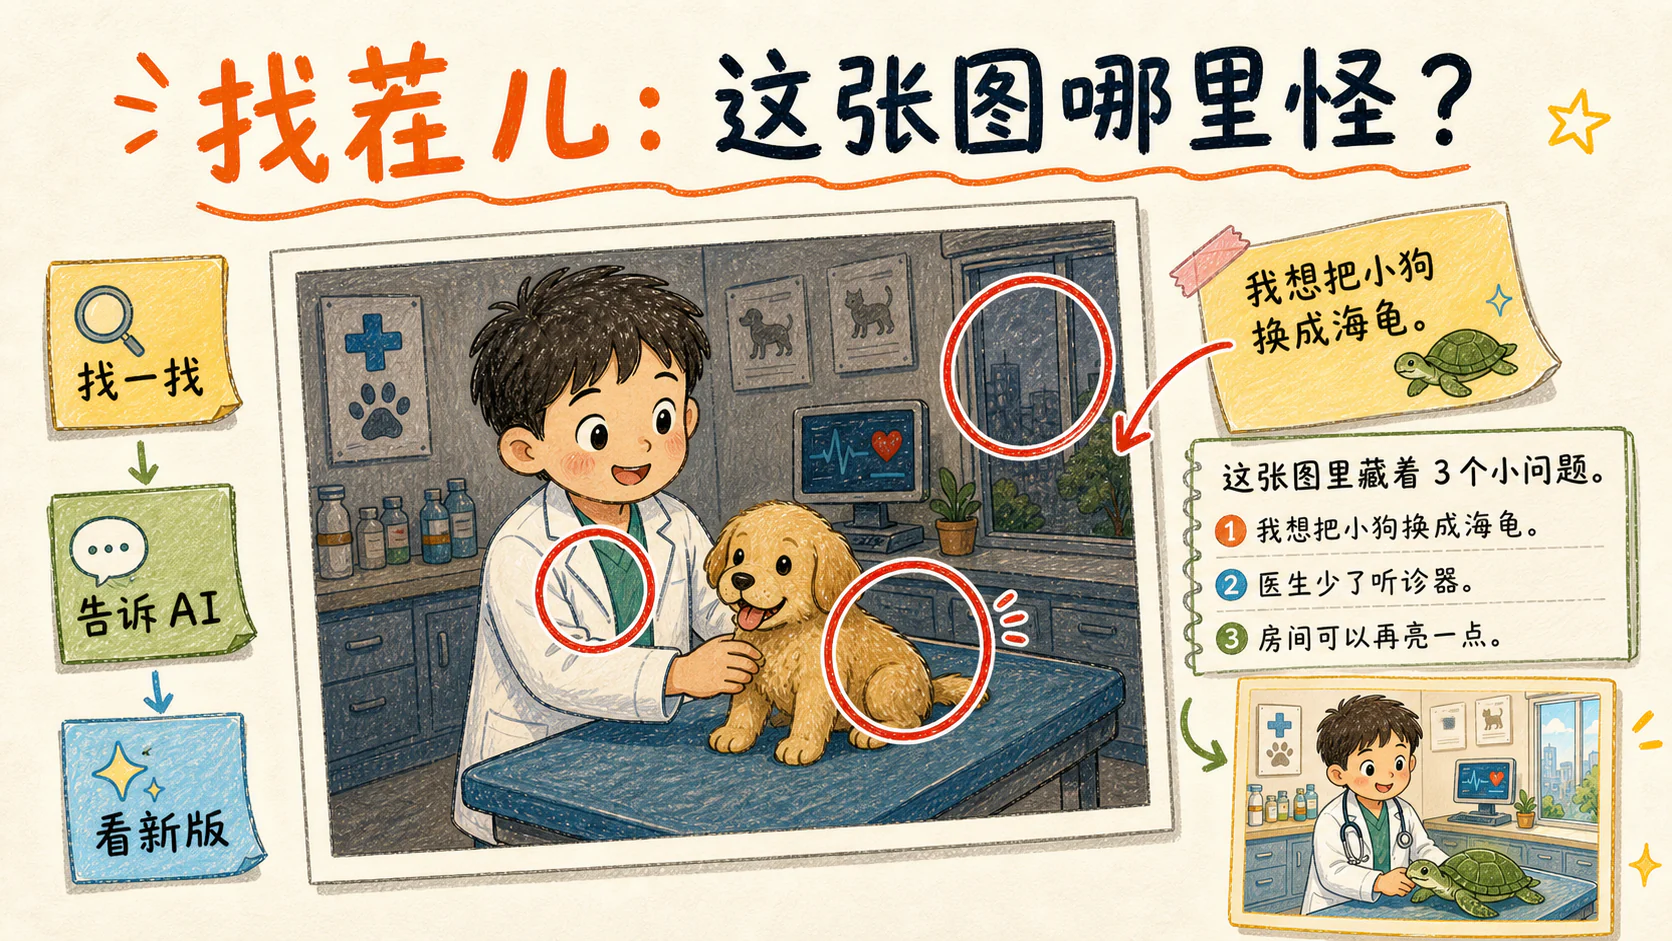
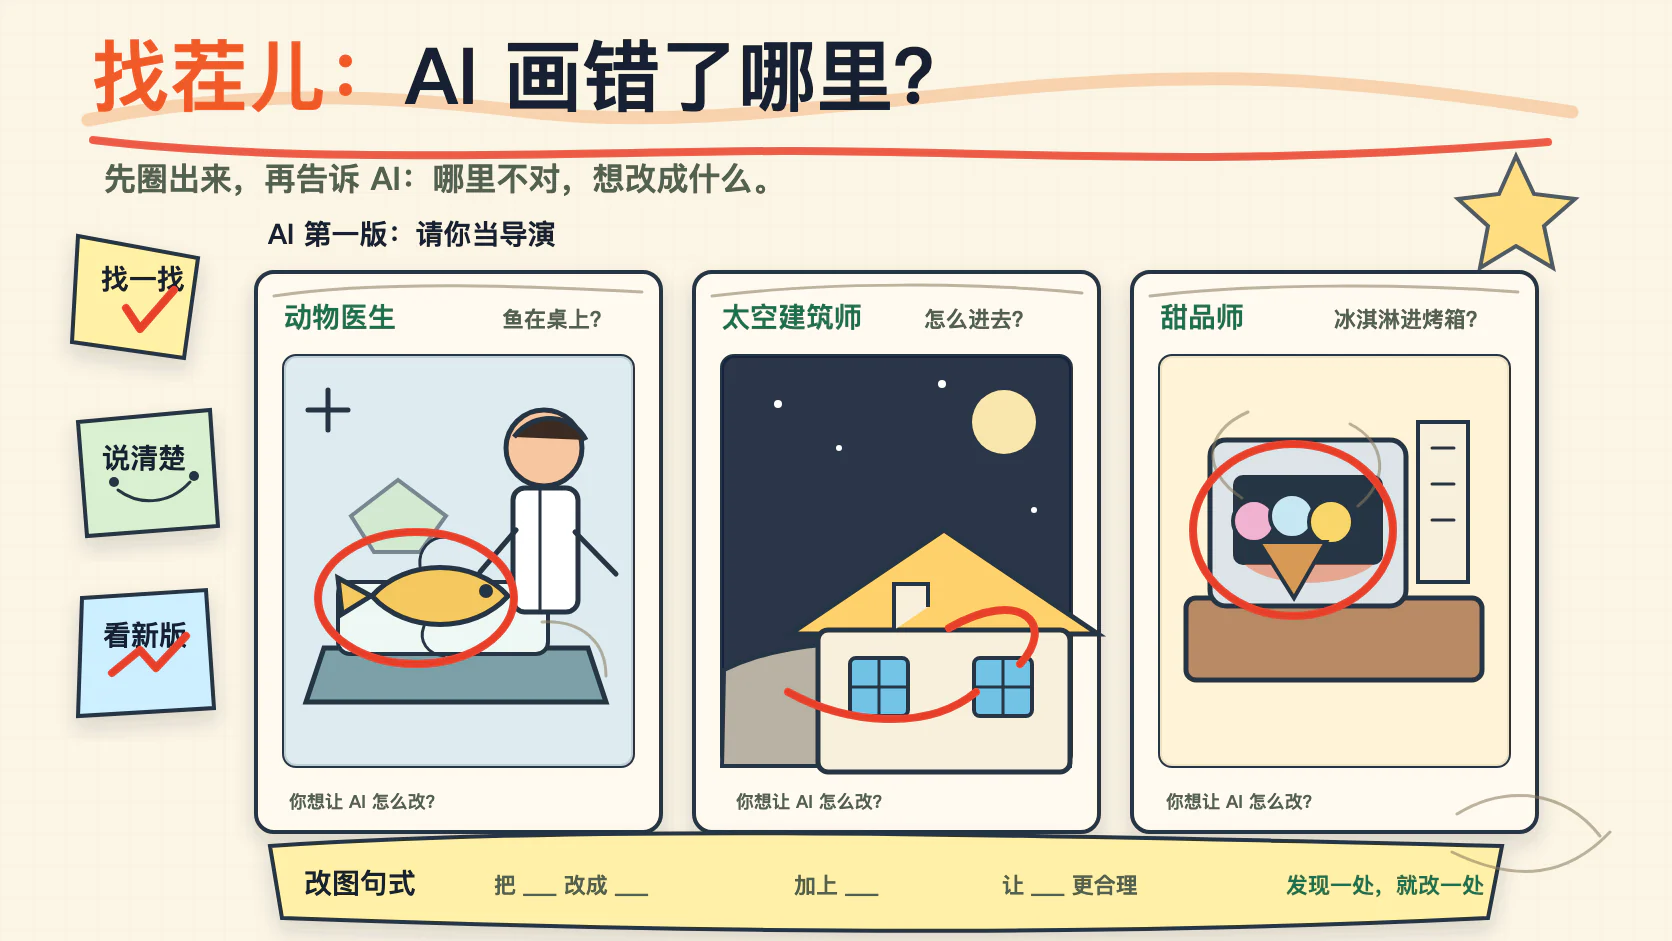
Improve AI find-the-error slide

diff --git a/课程产品包/07_Web教学系统/ceo-camp-web/src/app.tsx b/课程产品包/07_Web教学系统/ceo-camp-web/src/app.tsx
@@ -506,11 +506,11 @@ const aiJudgementSketchnoteSlides: Array<{
   },
   {
     page_no: 9,
-    title: "找茬儿：这张图哪里怪？",
-    content_summary: "孩子找出图里的小问题，再告诉 AI 改哪里、看新版。",
+    title: "找茬儿：AI 画错了哪里？",
+    content_summary: "孩子从几张明显不合理的 AI 第一版里找问题，再告诉 AI 怎么改。",
     page_type: "experiment",
-    image: "09-slide-find-odd-details.webp",
-    alt: "手绘课件：孩子在 AI 第一张图里找出问题，并写便签让 AI 修改"
+    image: "09-slide-find-odd-details.webp?v=logic-errors-20260611",
+    alt: "手绘课件：三张 AI 第一版未来职业图里有鱼离开水、月球房子没门、冰淇淋进烤箱等明显错误，孩子圈出问题让 AI 修改"
   }
 ];
 

diff --git a/课程产品包/07_Web教学系统/ceo-camp-web/public/courseware/baoyu-ai-knowledge-sketchnote/slide-deck/day1-ai-basics-sketchnote/index.html b/课程产品包/07_Web教学系统/ceo-camp-web/public/courseware/baoyu-ai-knowledge-sketchnote/slide-deck/day1-ai-basics-sketchnote/index.html
@@ -202,7 +202,7 @@
         "06-slide-clear-task.webp",
         "07-slide-human-director.webp",
         "08-slide-first-image-task.webp",
-        "09-slide-find-odd-details.webp",
+        "09-slide-find-odd-details.webp?v=logic-errors-20260611",
       ];
 
       let index = 0;

diff --git a/课程产品包/07_Web教学系统/ceo-camp-web/courseware-source/day1-ai-basics-sketchnote/prompts/09-slide-find-odd-details.md b/课程产品包/07_Web教学系统/ceo-camp-web/courseware-source/day1-ai-basics-sketchnote/prompts/09-slide-find-odd-details.md
@@ -9,7 +9,7 @@ Create a presentation slide image following these guidelines:
 ## STYLE_INSTRUCTIONS
 
 <STYLE_INSTRUCTIONS>
-Design Aesthetic: Soft hand-drawn sketchnote illustration with warm classroom energy. Warm paper background, find-the-difference game feeling, red circles, sticky notes, small improved thumbnail, friendly and playful.
+Design Aesthetic: Soft hand-drawn sketchnote illustration with warm classroom energy. Warm paper background, find-the-difference game feeling, red circles, sticky notes, friendly and playful.
 Typography: Large handwritten title and short labels. Keep text readable and sparse.
 Rules: no photorealism, no software UI, no corporate style, no page numbers, no logos, no dense paragraphs, no fixed multi-step lecture.
 </STYLE_INSTRUCTIONS>
@@ -23,21 +23,26 @@ Type: Back Cover
 Narrative Goal: Create a find-the-problem task that naturally makes children ask AI for more changes.
 
 Visible text, exactly:
-- 找茬儿：这张图哪里怪？
+- 找茬儿：AI 画错了哪里？
 - 找一找
-- 告诉 AI
+- 说清楚
 - 看新版
-- 这张图里藏着 3 个小问题。
-- 我想把小狗换成海龟。
-- 医生少了听诊器。
-- 房间可以再亮一点。
+- 先圈出来，再告诉 AI：哪里不对，想改成什么。
+- 把 ___ 改成 ___
+- 加上 ___
+- 让 ___ 更合理
+- 发现一处
+- 就让 AI 改一处
 
 Visual description:
-Show one AI first draft future career picture with three easy-to-spot issues: the animal is a puppy but the child wanted a turtle, the doctor has no stethoscope, and the room is a little dark. A child circles one issue with a red marker and adds a sticky note asking to change the puppy into a turtle. A small improved thumbnail appears in the corner.
+Show three AI first draft future career pictures with clear logical mistakes children can spot quickly:
+1. Animal doctor: a goldfish is lying on a clinic table without water.
+2. Space architect: a moon house has no door and has open windows.
+3. Dessert chef: ice cream is being baked in an oven.
+Each picture should have a red circle around the strange part. On the side, show a sticky note with short sentence patterns for asking AI to revise the image.
 
 Layout:
-Large picture in center, three circled problem spots, sticky note on side, small improved version in corner. Make it feel like a game, not a checklist.
+Three hand-drawn picture cards in the center, each with one obvious logical mistake. Sticky notes on the side: find it, say it clearly, see the new version. Make it feel like a game, not a lecture.
 
 Important:
 Use only the visible text listed above. Do not add page numbers, footers, logos, extra labels, or teacher notes.
-

diff --git a/课程产品包/07_Web教学系统/ceo-camp-web/courseware-source/day1-ai-basics-sketchnote/analysis.md b/课程产品包/07_Web教学系统/ceo-camp-web/courseware-source/day1-ai-basics-sketchnote/analysis.md
@@ -41,11 +41,11 @@ Source file: `source-day1-ai-basics-sketchnote.md`
 5. 提示词就是任务纸条。
 6. AI 生成结果后，人来判断和修改。
 7. 单独实验：孩子试着把模糊想法改成清楚的出图任务单。
-8. 找茬儿任务：AI 第一张图里有几处不对劲，孩子自己发现问题，再告诉 AI 改哪里。
+8. 找茬儿任务：几张 AI 第一版图里有明显逻辑错误，孩子自己发现问题，再告诉 AI 改哪里。
 
 ## Scope Boundary
 
-第 8-9 页保留为独立出图实验页。前 7 页讲 AI 如何读线索并生成未来职业照；第 8 页让孩子体验一次“给 AI 清楚线索，看看它能画出什么”；第 9 页设计成“找茬儿任务”：AI 第一张图里故意有几处不对劲，孩子自己发现问题，一处一处告诉 AI 修改。
+第 8-9 页保留为独立出图实验页。前 7 页讲 AI 如何读线索并生成未来职业照；第 8 页让孩子体验一次“给 AI 清楚线索，看看它能画出什么”；第 9 页设计成“找茬儿任务”：几张 AI 第一版图里故意有明显逻辑错误，孩子自己发现问题，一处一处告诉 AI 修改。
 
 ## Text Risk Notes
 
@@ -69,7 +69,7 @@ Visible copy checks:
 - No teacher-control, backend, deployment, or product-planning language in the whitelist.
 - No创业方向三问 or software/tool-operation jump in the whitelist.
 - Child-facing phrases use concrete classroom actions: 看、说、画、找、圈、告诉 AI、看新版。
-- More child-natural wording has been preferred: `长大后的职业照`, `动物医院`, `房间可以再亮一点`。
+- More child-natural wording has been preferred: `长大后的职业照`, `动物医院`, `AI 画错了哪里`。
 
 ## Production Status
 

diff --git a/课程产品包/07_Web教学系统/ceo-camp-web/courseware-source/day1-ai-basics-sketchnote/outline.md b/课程产品包/07_Web教学系统/ceo-camp-web/courseware-source/day1-ai-basics-sketchnote/outline.md
@@ -252,20 +252,21 @@ Vague note left, clear task card center, AI brain and first image right. Keep vi
 Create a find-the-problem task that naturally makes children ask AI for more changes.
 
 // KEY CONTENT
-Headline: 找茬儿：这张图哪里怪？
+Headline: 找茬儿：AI 画错了哪里？
 Body:
 - 找一找
-- 告诉 AI
+- 说清楚
 - 看新版
-- 这张图里藏着 3 个小问题。
-- 我想把小狗换成海龟。
-- 医生少了听诊器。
-- 房间可以再亮一点。
+- 先圈出来，再告诉 AI：哪里不对，想改成什么。
+- 把 ___ 改成 ___
+- 加上 ___
+- 让 ___ 更合理
+- 发现一处
+- 就让 AI 改一处
 
 // VISUAL
-Show one AI first draft future career picture with three easy-to-spot issues: the animal is a puppy but the child wanted a turtle, the doctor has no stethoscope, and the room is a little dark. A child circles one issue with a red marker and adds a sticky note asking to change the puppy into a turtle. A small improved thumbnail appears in the corner.
+Show three AI first draft future career pictures with clear logical mistakes children can spot quickly: a goldfish is lying on a clinic table without water, a moon house has no door and has open windows, and ice cream is being baked in an oven. Each picture should have a red circle around the strange part.
 
 // LAYOUT
 Layout: annotated-task
 Large picture in center, three circled problem spots, sticky note on side, small improved version in corner. Make it feel like a game, not a checklist.
-
